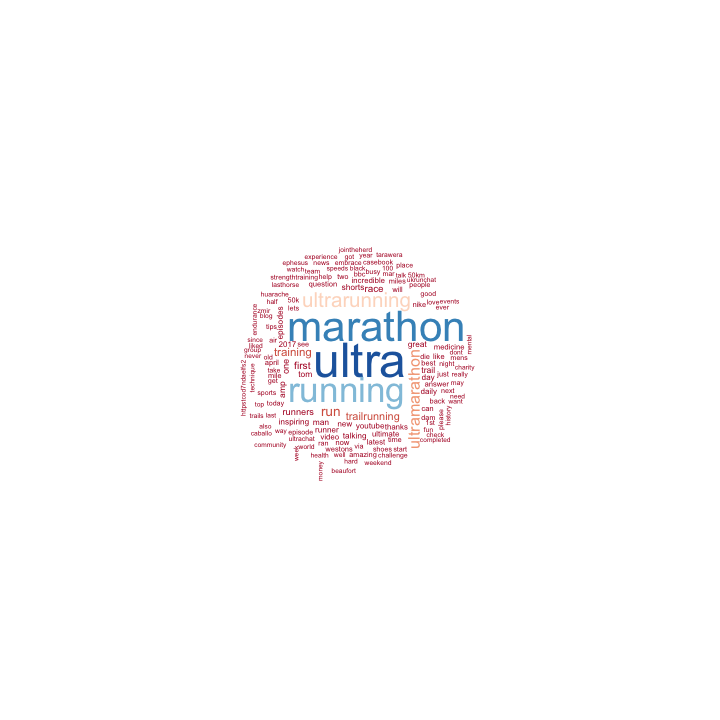
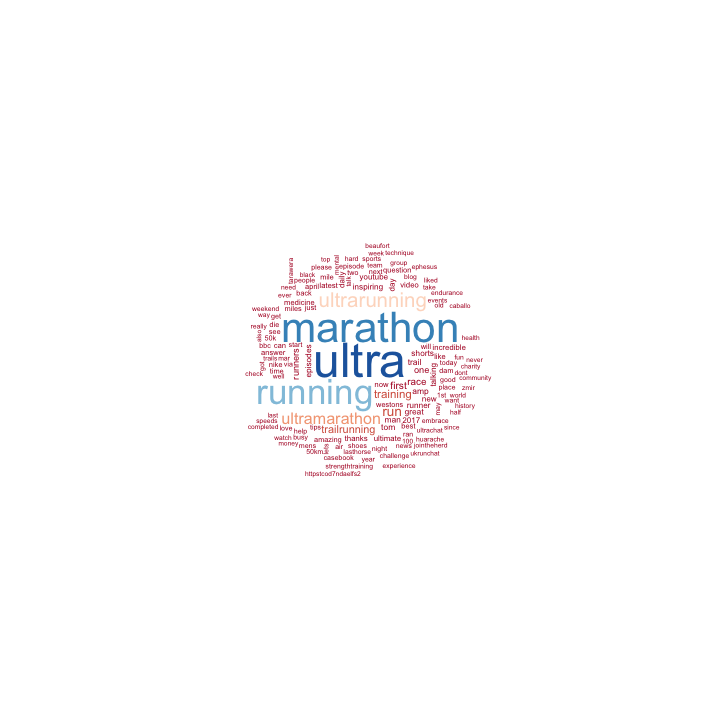
Fix post

Changed region(s): [[0.3361, 0.3361, 0.6722, 0.6722]]

diff --git a/_posts/2017-03-15-Ultrarunner-Or-Ultra-Runner.md b/_posts/2017-03-15-Ultrarunner-Or-Ultra-Runner.md
@@ -99,7 +99,7 @@ pie(um_count, col = c("grey90","grey70","grey50"))
 
 ![plot of chunk 2017-03-15_ultramarathon_tweet_pie](/figures/2017-03-15_ultramarathon_tweet_pie-1.png)
  
-Let's look at this code. After loading the ```twitteR``` package and specifying the number of Tweets to load, we access the Twitter API using ```searchTwitter``` and load in the 5 &times; 10<sup>5</sup> most recent Tweets with the terms "ultra", "running", or "ultrarunning" in them (there will be many fewer than this, but I want to capture every Tweet possible). This produces a list of 960 objects of class ```status```, which is a specially defined reference class as a container for Twitter statuses. Next we strip out all of the retweets to leave 584 Tweets, then pull out the text from the list objects (```sapply()``` applies the accessor function ```getText()``` to all elements of the list). Since I am only interested in three specific terms, I use regular expressions to look only at Tweets containing one of these terms (giving 316 Tweets), and then count how many Tweets contain each of the three specific terms. Finally I generate a pie chart of the results (yes, yes, I know - I hate pie charts as well). 
+Let's look at this code. After loading the ```twitteR``` package and specifying the number of Tweets to load, we access the Twitter API using ```searchTwitter``` and load in the 500000 most recent Tweets with the terms "ultra", "running", or "ultrarunning" in them (there will be many fewer than this, but I want to capture every Tweet possible). This produces a list of 960 objects of class ```status```, which is a specially defined reference class as a container for Twitter statuses. Next we strip out all of the retweets to leave 584 Tweets, then pull out the text from the list objects (```sapply()``` applies the accessor function ```getText()``` to all elements of the list). Since I am only interested in three specific terms, I use regular expressions to look only at Tweets containing one of these terms (giving 316 Tweets), and then count how many Tweets contain each of the three specific terms. Finally I generate a pie chart of the results (yes, yes, I know - I hate pie charts as well). 
  
 A couple of things here. First of all, there are a lot of retweets. Of the 960 Tweets originally analysed, only 584 remain after removing the retweets. This means that 39.17% of these Tweets were retweets. Man, we ultrarunners aren't very original are we? Unfortunately this therefore drastically reduces the number of Tweets that I am analysing. Secondly, because of the way the pattern matching is done we end up with a lot of Tweets with "ultra" or "running" in them that don't match any of the three specific terms that I am looking at here. Also, this counting may be double counting some Tweets if both versions are used in a single Tweet. But I can't be bothered taking such stupidity into account right now! ;)
  
@@ -120,12 +120,13 @@ ur_count <- NULL
 for (t in c("ultrarunning", "ultra-running", "ultra running")) {
   ur_count[[t]] <- length(grep(t, ur_tweets_text, ignore.case = TRUE))
 }
+par(mar = c(0,0,0,0))
 pie(ur_count, col = c("grey90","grey70","grey50"))
 {% endhighlight %}
 
 ![plot of chunk 2017-03-15_ultrarunning_tweet_pie](/figures/2017-03-15_ultrarunning_tweet_pie-1.png)
  
-There are a lot more Tweets relating to ultra "running" compared to ultra "marathon", with 11977 Tweets in the starting data set. However, again we lose a lot of Tweets through retweets leaving us with only 2198 Tweets to play with. After trimming out Tweets that don't follow the format that I am looking at here, we are left with only 179 -- even less than in the last analysis. 
+There are a lot more Tweets relating to ultra "running" compared to ultra "marathon", with 11953 Tweets in the starting data set. However, again we lose a lot of Tweets through retweets leaving us with only 2127 Tweets to play with. After trimming out Tweets that don't follow the format that I am looking at here, we are left with only 178 -- even less than in the last analysis. 
  
 In this case, it is less clear cut, and whilst the single word term "ultrarunning" is used most often, the two word "ultra running" is not far behind. Damn, I wanted a clearly defined outcome, but I guess I will let you off whichever one you choose to use. But god help anybody who chooses to hyphenate either term...
  
@@ -146,6 +147,7 @@ cloud_dat <- tm_map(cloud_dat, PlainTextDocument)                    ## Make pla
 cloud_dat <- tm_map(cloud_dat, content_transformer(tolower))         ## Convert to lower case
 cloud_dat <- tm_map(cloud_dat, removePunctuation)                    ## Remove punctuation
 cloud_dat <- tm_map(cloud_dat, removeWords, stopwords("english"))    ## Remove common English words
+par(mar = c(0,0,0,0))
 wordcloud(cloud_dat, max.words = 1000, min.freq = 5, random.order = FALSE, colors = brewer.pal(9, "RdBu"))
 {% endhighlight %}
 
